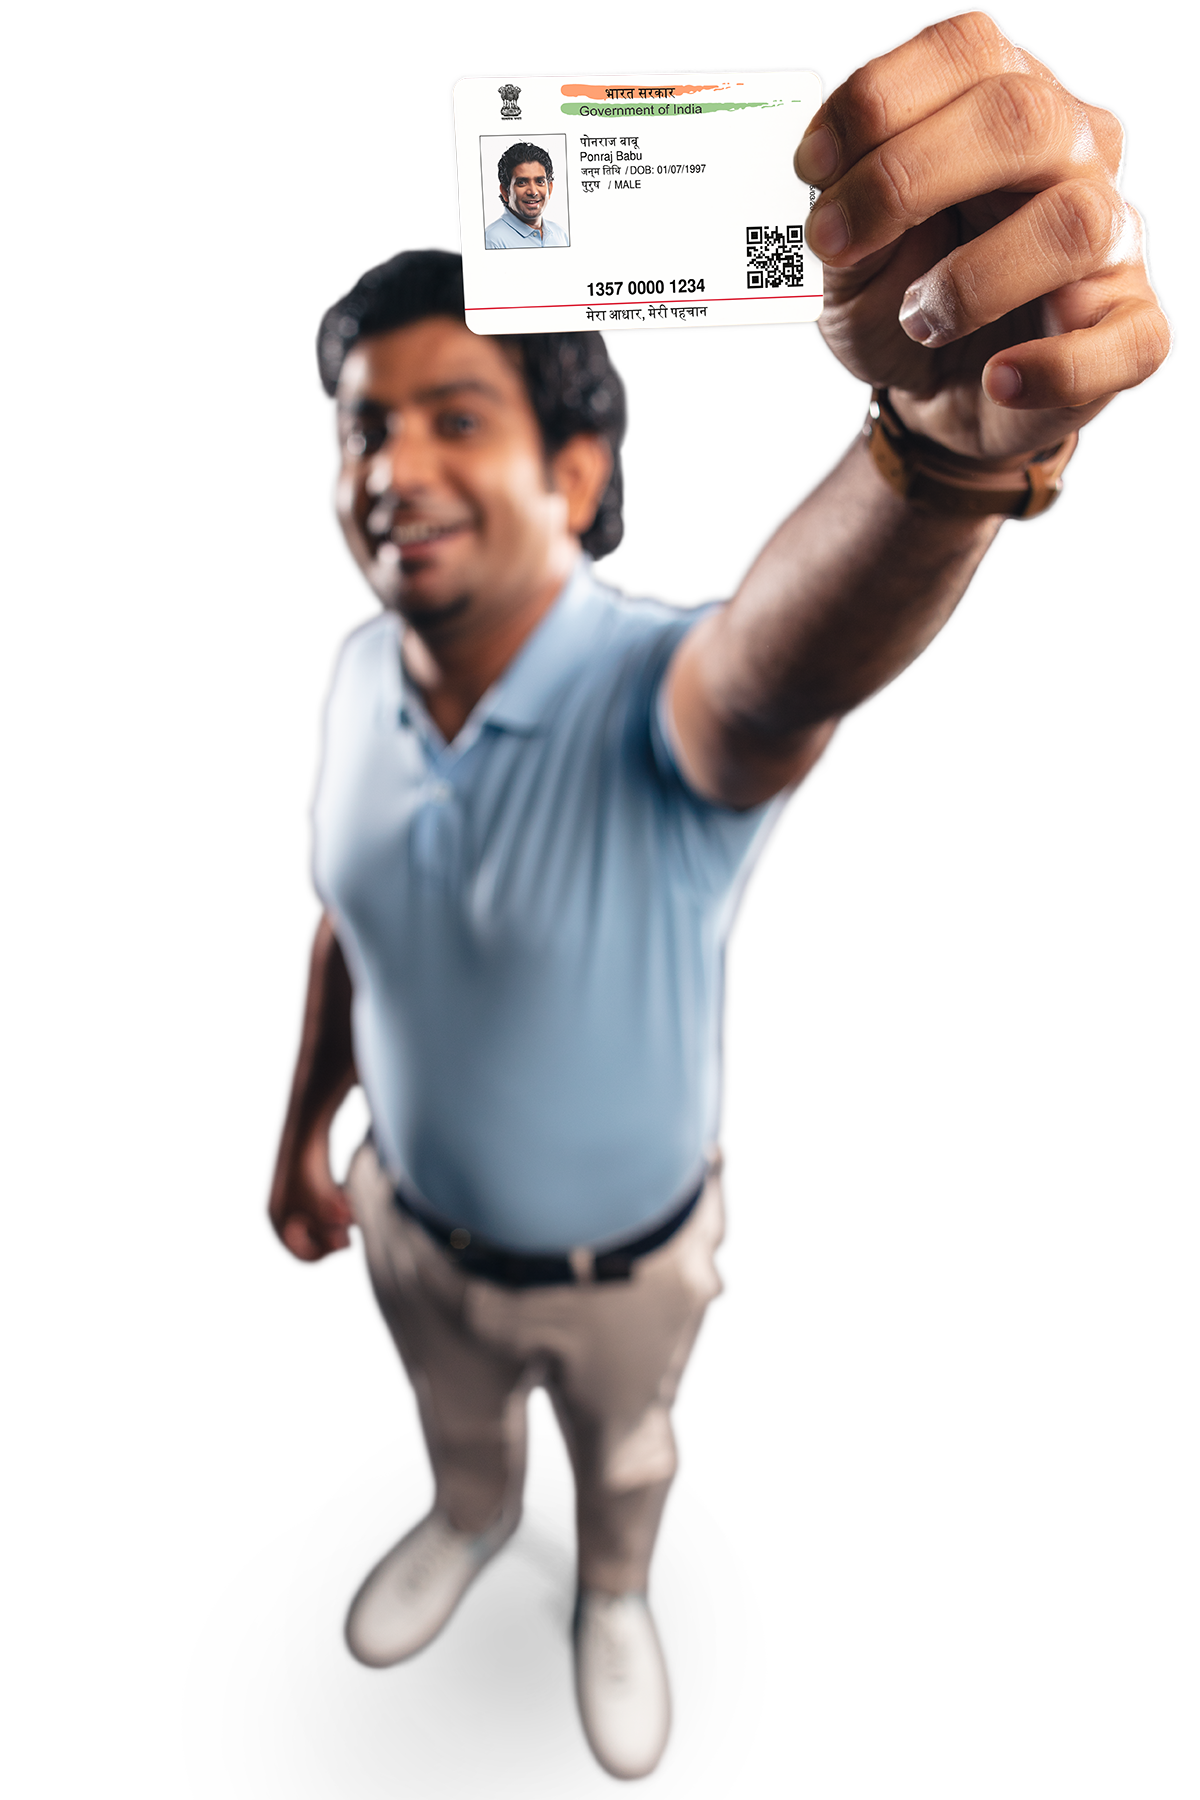
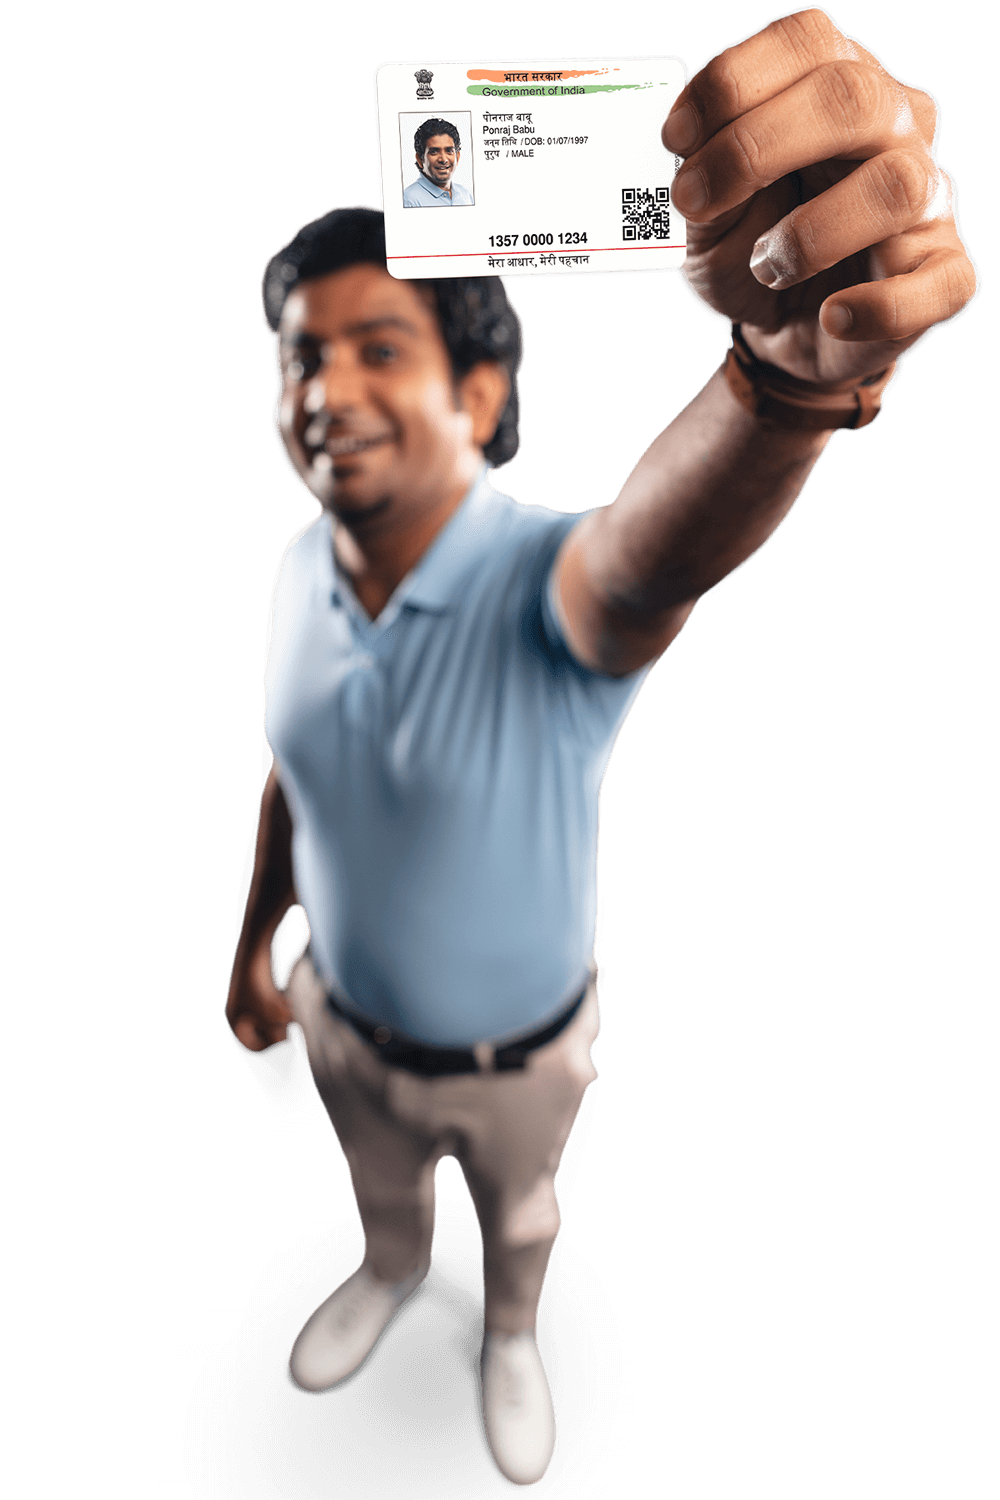
Front-end build: Home Page: New Character Cutouts: P4

diff --git a/css/pages/section/sell-gold-section.css b/css/pages/section/sell-gold-section.css
@@ -18,18 +18,19 @@
 	width: calc(var(--card)*1);
 	transform: scale(0.7) translateX(42%) translateY(20%);
 }
-.step-cards .sgs2 .card-content .bg-img {
-	bottom: 0;
-	right: 0;
-	width: calc(var(--card)*1);
-	transform: scale(0.7) translateX(40%) translateY(21%);
-}
+.step-cards .sgs2 .card-content .bg-img,
 .step-cards .rgs2 .card-content .bg-img {
 	bottom: 0;
 	right: 0;
 	width: calc(var(--card)*1);
 	transform: scale(0.7) translateX(40%) translateY(21%);
 }
+/*.step-cards .rgs2 .card-content .bg-img {
+	bottom: 0;
+	right: 0;
+	width: calc(var(--card)*1);
+	transform: scale(0.7) translateX(40%) translateY(21%);
+}*/
 .step-cards .sgs3 .card-content .bg-img,
 .step-cards .rgs3 .card-content .bg-img {
 	bottom: 0;
@@ -106,14 +107,15 @@
 		width: calc(var(--card)*1.5);
 		transform: scale(0.58) translateX(20%) translateY(55%);
 	}
-	.step-cards .sgs2 .card-content .bg-img {
+	.step-cards .sgs2 .card-content .bg-img,
+	.step-cards .rgs2 .card-content .bg-img {
 		width: calc(var(--card)*1.5);
 		transform: scale(0.58) translateX(25%) translateY(70%);
 	}
-	.step-cards .rgs2 .card-content .bg-img {
+	/*.step-cards .rgs2 .card-content .bg-img {
 		width: calc(var(--card)*1.5);
 		transform: scale(0.6) translateX(25%) translateY(60%);
-	}
+	}*/
 	.step-cards .sgs3 .card-content .bg-img,
 	.step-cards .rgs3 .card-content .bg-img {
 		width: calc(var(--card)*1.5);

diff --git a/css/pages/home-page.css b/css/pages/home-page.css
@@ -777,7 +777,7 @@
 	bottom: 0;
 	left: 50%;
 	width: var(--card);
-	transform: translateX(-10%) translateY(-10%) scale(0.85);
+	transform: translateX(-22%) translateY(-10%) scale(0.85);
 }
 .sell-gold-home-visit-form-section .char:after {
 	content: '';

diff --git a/pages/section/release-gold.php b/pages/section/release-gold.php
@@ -26,12 +26,12 @@
 						</label>
 						<div class="card-content">
 							<div class="row space-50-left-right">
-								<div class="columns small-9 medium-5 small-offset-1 space-50-left-right space-200-top-bottom">
+								<div class="columns small-7 medium-5 small-offset-1 space-50-left-right space-100-top space-200-bottom">
 									<div class="p">To close your Gold loan and get your gold released, you need to bring the pledge receipt given to you by the gold loan provider.</div>
-									<div class="h5 medium space-200-top-bottom">Check your gold loan documents. Bring the Pledge Receipt.</div>
+									<div class="h5 medium space-100-top-bottom">Check your gold loan documents. Bring the Pledge Receipt.</div>
 								</div>
 							</div>
-							<div class="bg-img"><img class="block" src="../media/cutout/char-7094.png<?php echo $ver ?>"></div>
+							<div class="bg-img"><img class="block" src="../media/cutout/char-6237.png<?php echo $ver ?>"></div>
 						</div>
 					</div>
 					<!-- CARD: 3 -->

diff --git a/pages/section/sell-gold-home-visit-form.php b/pages/section/sell-gold-home-visit-form.php
@@ -75,6 +75,6 @@
 				</div>
 			</div>
 		</div>
-		<div class="char"><img class="block" src="../media/cutout/char-7364.png<?php echo $ver ?>"></div>
+		<div class="char"><img class="block" src="../media/cutout/char-7341.png<?php echo $ver ?>"></div>
 	</div>
 </section>
